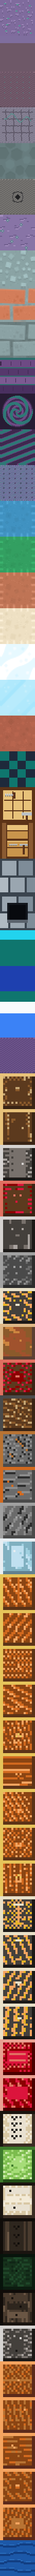
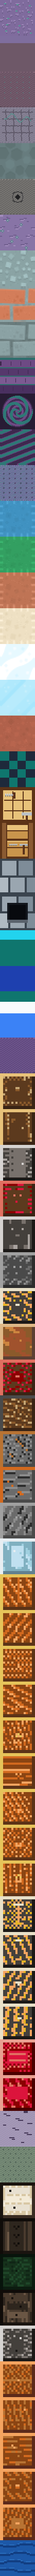
fix(bloxbert): birch log and leaves get per-pack art (were legacy 16px wraps)

Changed region(s): [[0.0, 0.8125, 1.0, 0.875]]

diff --git a/bloxbert-src/tools/gen64.py b/bloxbert-src/tools/gen64.py
@@ -826,6 +826,38 @@ def draw_leaves(px, mystical, under=False):
                         put(px, x + dx, y + dy, col)
 
 
+# 2.5.550: birch gets real pack art (was the legacy 16px wrap in both packs).
+def draw_birch_log(px, mystical):
+    if mystical:
+        bark, tone, mark = (168, 156, 186), (152, 140, 172), (70, 56, 88)
+    else:
+        bark, tone, mark = (200, 192, 170), (182, 174, 152), (64, 58, 50)
+    fill_noise(px, [bark, tone, bark, (bark[0] - 8, bark[1] - 8, bark[2] - 8)], 3)
+    # Short dark horizontal dashes: birch reads by its marks, not by color.
+    for k in range(14):
+        y = (k * 9 + 3) % 60
+        x = (k * 23 + 5) % 52
+        w = 6 + (k % 3) * 2
+        for dx in range(w):
+            put(px, x + dx, y, mark)
+            put(px, x + dx, y + 1, mark)
+
+
+def draw_birch_leaves(px, mystical):
+    if mystical:
+        cols = [(120, 140, 120), (104, 124, 106), (136, 156, 132), (96, 116, 100)]
+        pocket = (80, 98, 86)
+    else:
+        cols = [(112, 150, 70), (98, 134, 60), (128, 166, 82), (104, 142, 64)]
+        pocket = (82, 112, 50)
+    fill_noise(px, cols, 11)
+    for y in range(3, 60, 8):
+        for x in range(3 + (y // 8 % 2) * 4, 60, 10):
+            for d in range(3):
+                put(px, x + d, y, pocket)
+                put(px, x + 1, y + d - 1, pocket)
+
+
 def draw_sand(px, mystical):
     if mystical:
         base, ripple, grain = (136, 116, 166), (112, 94, 142), (162, 140, 188)
@@ -1252,6 +1284,10 @@ def main():
     def face_for(layer, myst):
         if layer == 'leavesUnder':
             return tune_face('leavesUnder', master_image('leaves_under', myst), myst)
+        if layer == 'wrap_birchLog':
+            im = new_image(); draw_birch_log(im.load(), myst); return im
+        if layer == 'wrap_birchLeaves':
+            im = new_image(); draw_birch_leaves(im.load(), myst); return im
         if layer.startswith('wrap_'):
             return wraps[layer[5:]]
         if layer in MASTERS:
